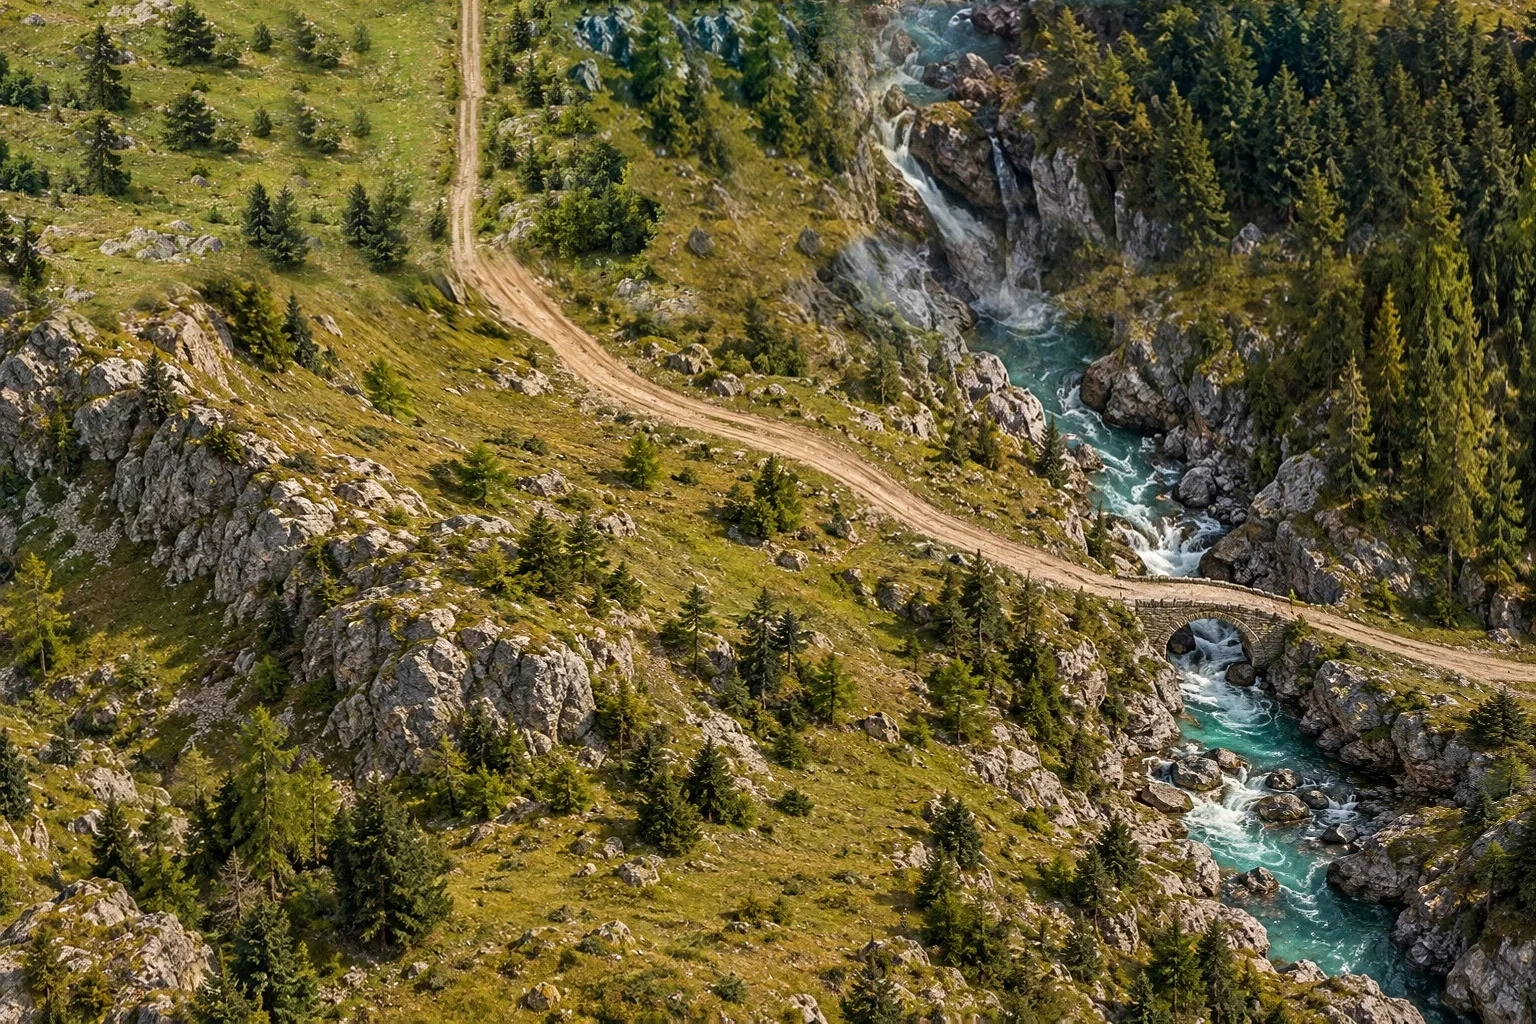
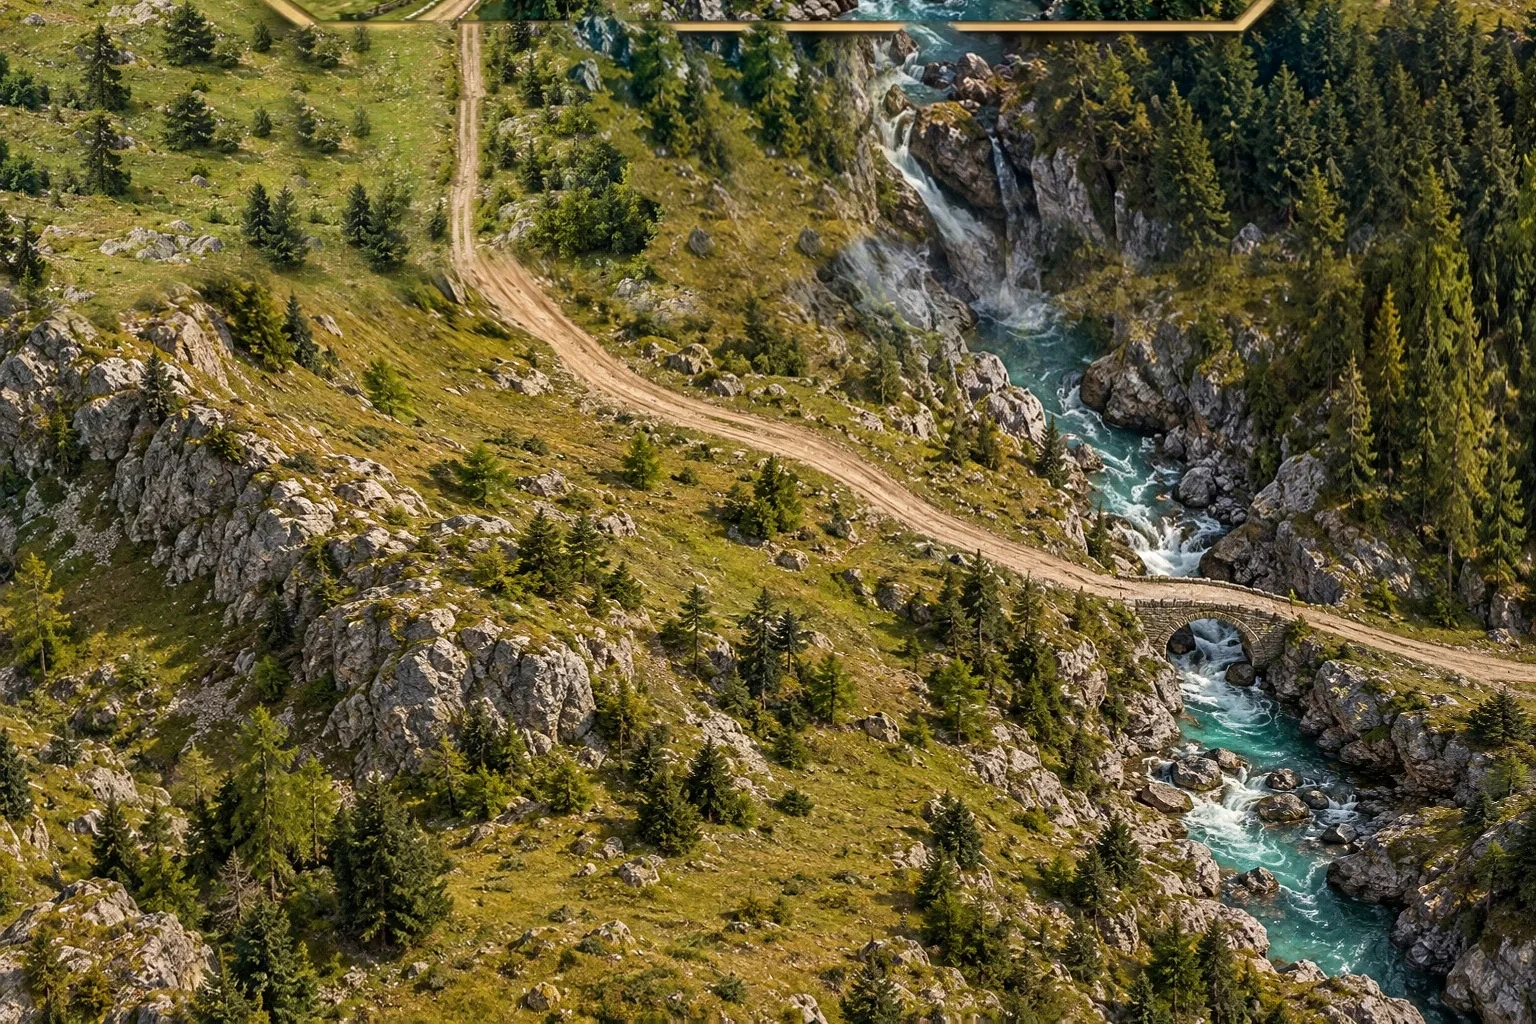
Reconstruct SOUTH native forest contact and preserve real mobile views

Changed region(s): [[0.1562, 0.0, 0.8438, 0.0938]]

diff --git a/art-reviews/v267-forest-river-continuity-review.md b/art-reviews/v267-forest-river-continuity-review.md
@@ -2,12 +2,12 @@
 
 Fictional Alpine atlas art, not historically verified topography.
 
-Restored the natural, undistorted upper-west SOUTH meadow, road and conifers from the original 1536x1024 stone-bridge artwork while retaining the separately registered eastern gorge/river and its original stone bridge. A photographic low-energy graph-cut seam runs through meadow pixels rather than trees or water. The replacement ends on an irregular ground boundary. A second source-native contact reconstructs the river mouth using only stone and water detail from the immutable Matrei photo, while retaining SOUTH-native river shapes, forests, roads and cliffs. No Matrei trees, settlements, road or gold frame are copied. Neither source photograph is globally warped, scaled, mirrored or painted with a synthetic cartway. The V123 x466 cartway and the original bridge stay in place.
+Restored the natural, undistorted upper-west SOUTH meadow, road and conifers from the original 1536x1024 stone-bridge artwork while retaining the separately registered eastern gorge/river and its original stone bridge. A photographic low-energy graph-cut seam runs through meadow pixels rather than trees or water. The replacement ends on an irregular ground boundary. A second source-native contact reconstructs the river mouth using only native, previously cropped Matrei landscape pixels across the shared bank, while retaining SOUTH-native river shapes, forests, roads and cliffs. No gold frame, invented settlements, mirrored trees or synthetic road are copied. Neither source photograph is globally warped, scaled, mirrored or painted with a synthetic cartway. The V123 x466 cartway and the original bridge stay in place.
 
-Seam x range: 550..752; native riverbank material pixels: 33488; northern-region mean RGB change: 15.74.
+Seam x range: 550..752; native seam-continuation pixels: 33826; northern-region mean RGB change: 17.82.
 
 Still an OPT-IN ?southArt=river review candidate. The Matrei/SOUTH rock and river morphology requires eyes-on iPhone inspection; numerical alignment does not establish artistic acceptance. V121 source, V123 100-node graph, V94, sprites, saves and production unchanged. Production RED.
 
 WEST source SHA256: 46efdd3cfd7df0163330445f7841e3e35502a317c3780f80cfd4a18444901103
 RIVER source SHA256: 40436e70d3306e836055161017f6514a00dec6875138beca2681db712dab667d
-Output SHA256: f0f4662b3d16b5d0abb5c642247eb7ee8df790fe1c6388180292da96f9a1ae62
+Output SHA256: 29ae8d2cf9268524831c0b9b95a45f969b459ca52a3c119c478b61005785ad25
